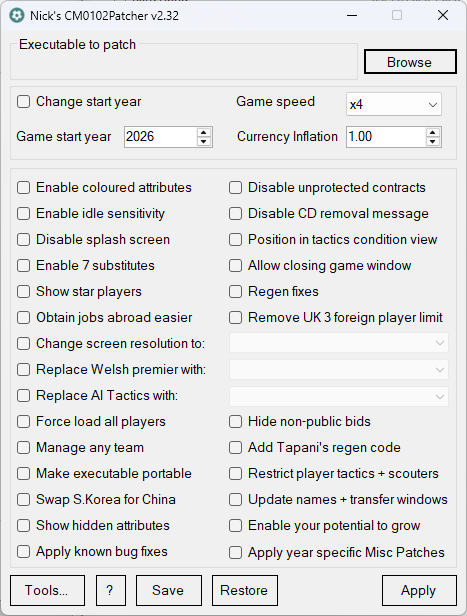
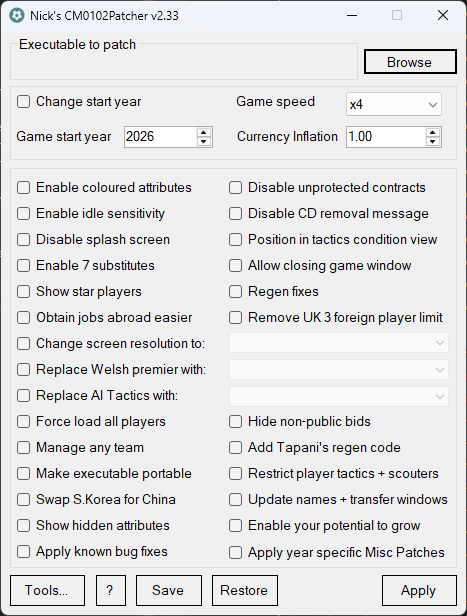
Update the version

Changed region(s): [[0.0, 0.0, 1.0, 1.0], [0.3597, 0.0, 0.3897, 0.0308], [0.0, 0.0, 0.03, 0.0308]]

diff --git a/PatcherForm.Designer.cs b/PatcherForm.Designer.cs
@@ -741,7 +741,7 @@
             this.KeyPreview = true;
             this.MaximizeBox = false;
             this.Name = "PatcherForm";
-            this.Text = "Nick\'s CM0102Patcher v2.32";
+            this.Text = "Nick\'s CM0102Patcher v2.33";
             this.KeyPress += new System.Windows.Forms.KeyPressEventHandler(this.PatcherForm_KeyPress);
             this.groupBox1.ResumeLayout(false);
             ((System.ComponentModel.ISupportInitialize)(this.numericGameStartYear)).EndInit();
